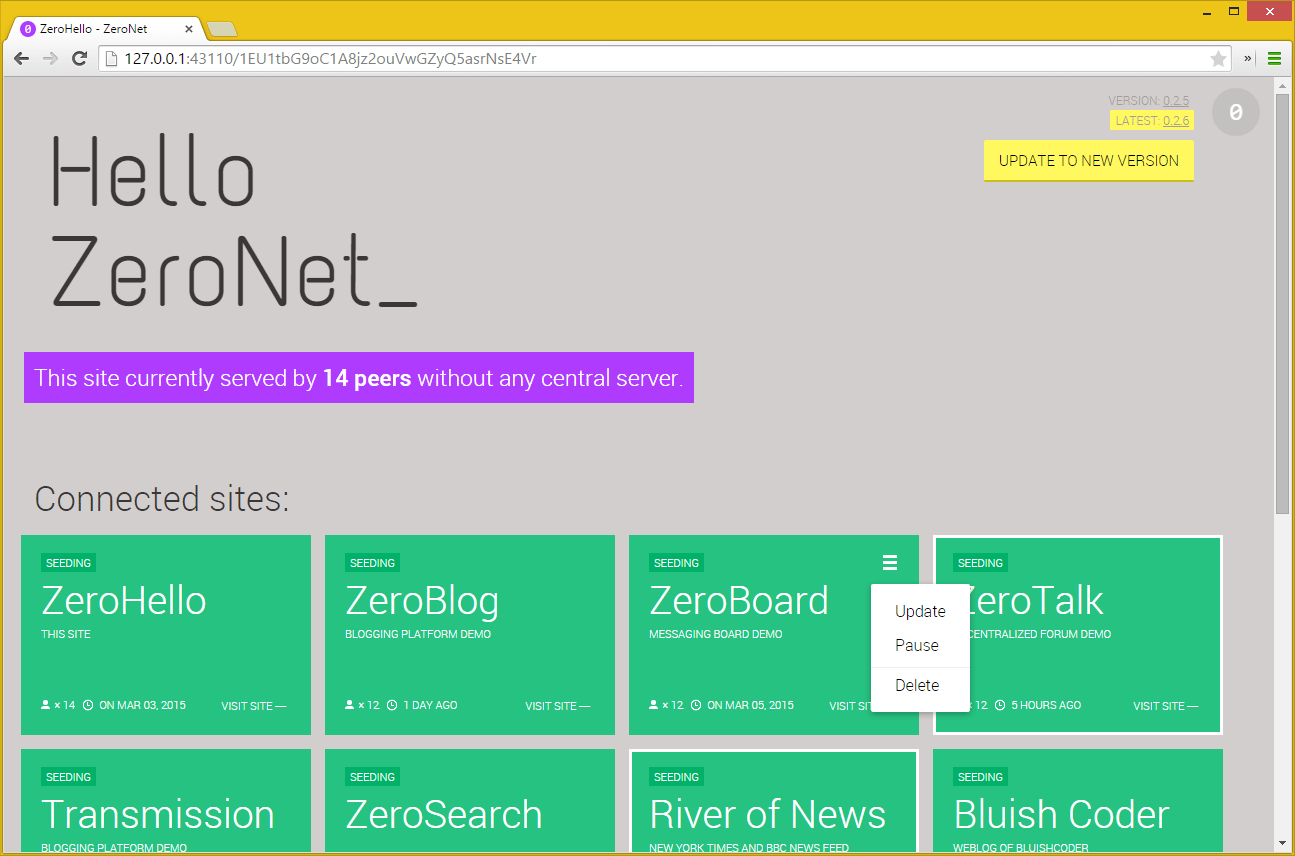
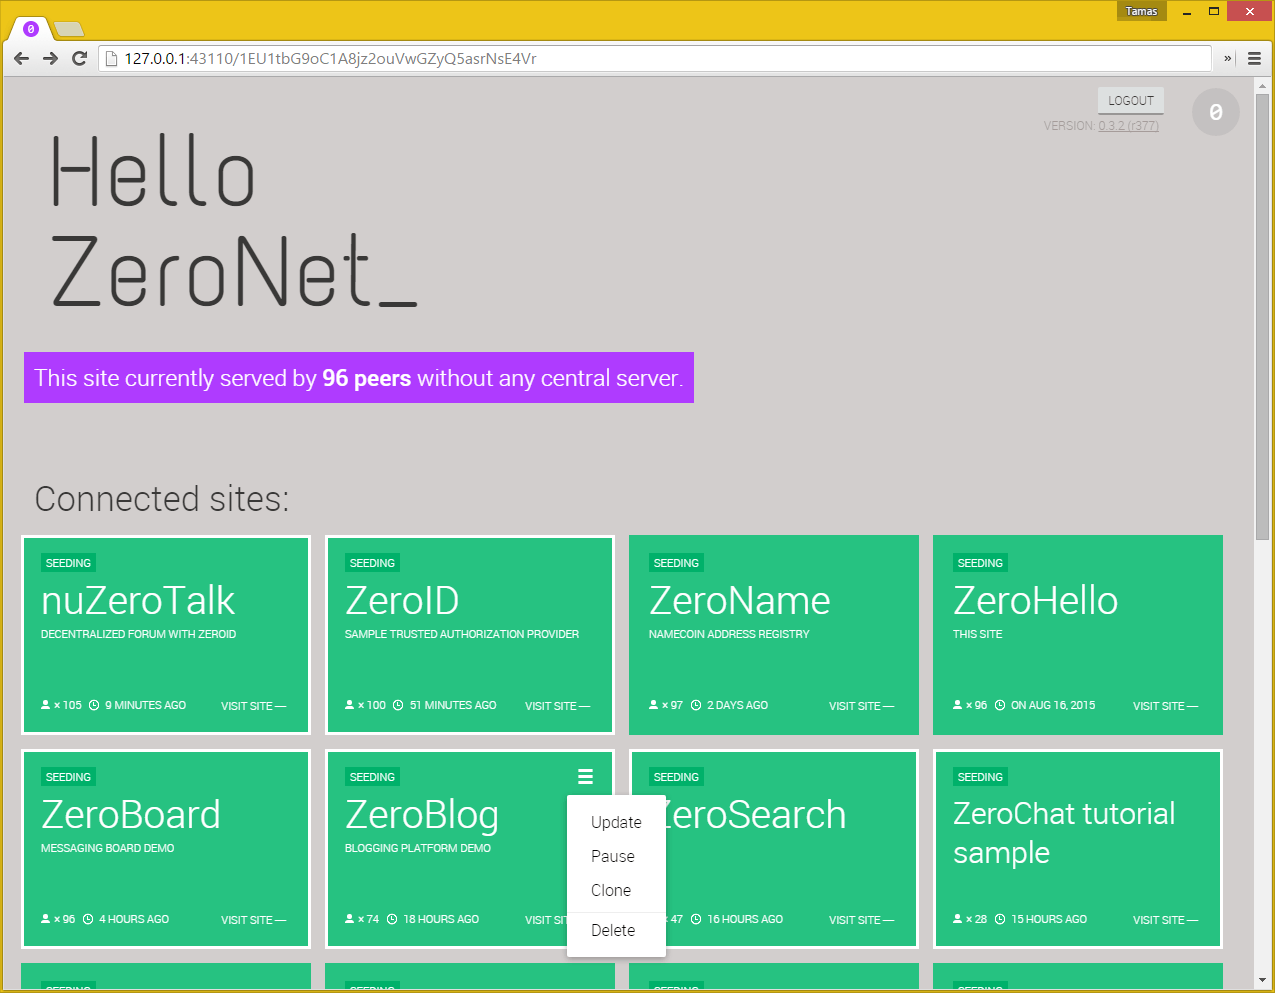
Bump donation to fourth quarter, Update sample sites list

diff --git a/docs/using_zeronet/sample_sites.md b/docs/using_zeronet/sample_sites.md
@@ -6,6 +6,7 @@ The homepage of ZeroNet
 
  - Lists all added sites: Title, Peer number, Modification date
  - Site actions: Update, Pause, Resume, Delete
+ - Clone sites to have your own blog / forum
  - If new version available update ZeroNet with one click
 
 ![ZeroHello](/img/zerohello.png)
@@ -56,7 +57,7 @@ How does it works?
 
 ![ZeroBlog](/img/zeroblog.png)
 
-Address: [1BLogC9LN4oPDcruNz3qo1ysa133E9AGg8](http://127.0.0.1:43110/1BLogC9LN4oPDcruNz3qo1ysa133E9AGg8)
+Address: [1BLogC9LN4oPDcruNz3qo1ysa133E9AGg8](http://127.0.0.1:43110/1BLogC9LN4oPDcruNz3qo1ysa133E9AGg8) or [blog.zeronetwork.bit](http://127.0.0.1:43110/blog.zeronetwork.bit)
 
 [Source code](https://github.com/HelloZeroNet/ZeroBlog)
 
@@ -76,11 +77,31 @@ Decentralized, p2p forum demo
 
 How does it works?
 
- - To be able to distribute your own content (Topics, Comments, Upvotes, etc.) you request an own file from the site owner
- - After the registration is done you can publish your file's modifications directly to other peers without contacting the site owner again
+ - To interact the site you have to request a certifate of registration (a cryptographic sign) from a ZeroID provider
+ - After you got the certificate you can publish your content (messages, topics, upvotes) directly to other peers
 
 ![ZeroTalk](/img/zerotalk.png)
 
-Address: [1TaLk3zM7ZRskJvrh3ZNCDVGXvkJusPKQ](http://127.0.0.1:43110/1TaLkFrMwvbNsooF4ioKAY9EuxTBTjipT)
+Address: [1TaLkFrMwvbNsooF4ioKAY9EuxTBTjipT](http://127.0.0.1:43110/1TaLkFrMwvbNsooF4ioKAY9EuxTBTjipT) or [talk.zeronetwork.bit](http://127.0.0.1:43110/talk.zeronetwork.bit)
 
 [Source code](https://github.com/HelloZeroNet/ZeroTalk)
+
+
+---
+
+## ZeroChat
+
+The finished site for the tutorial of creating server-less, SQL backed, real-time updated P2P chat application using ZeroNet in less than 100 lines of code
+
+ - Selecting ZeroID certificate
+ - Storing messages in a SQL database
+ - Creating own messages and distribute directly to other users in realtime
+ - Real-time update the messages as they arrives
+
+![ZeroChat](/img/zerochat.png)
+
+Address of finished site: [1AvF5TpcaamRNtqvN1cnDEWzNmUtD47Npg](http://127.0.0.1:43110/1AvF5TpcaamRNtqvN1cnDEWzNmUtD47Npg)
+
+Tutorial on ZeroBlog:
+ [Part1](http://127.0.0.1:43110/Blog.ZeroNetwork.bit/?Post:43:ZeroNet+site+development+tutorial+1),
+ [Part2](http://127.0.0.1:43110/Blog.ZeroNetwork.bit/?Post:46:ZeroNet+site+development+tutorial+2)

diff --git a/docs/help_zeronet/donate.md b/docs/help_zeronet/donate.md
@@ -11,8 +11,8 @@
 # Help to keep ZeroNet development alive
 
 
-## ZeroNet: 2015 third quarter development
-<a href="bitcoin:1QDhxQ6PraUZa21ET5fYUCPgdrwBomnFgX?Label=ZeroNet+donation" class="bitcoinbar" data-address="1QDhxQ6PraUZa21ET5fYUCPgdrwBomnFgX" data-goal="3.0"></a>
+## ZeroNet: 2015 fourth quarter development
+<a href="bitcoin:1QDhxQ6PraUZa21ET5fYUCPgdrwBomnFgX?Label=ZeroNet+donation" class="bitcoinbar" data-address="1QDhxQ6PraUZa21ET5fYUCPgdrwBomnFgX" data-goal="6.0"></a>
 
 * General donation towards ZeroNet development
 
